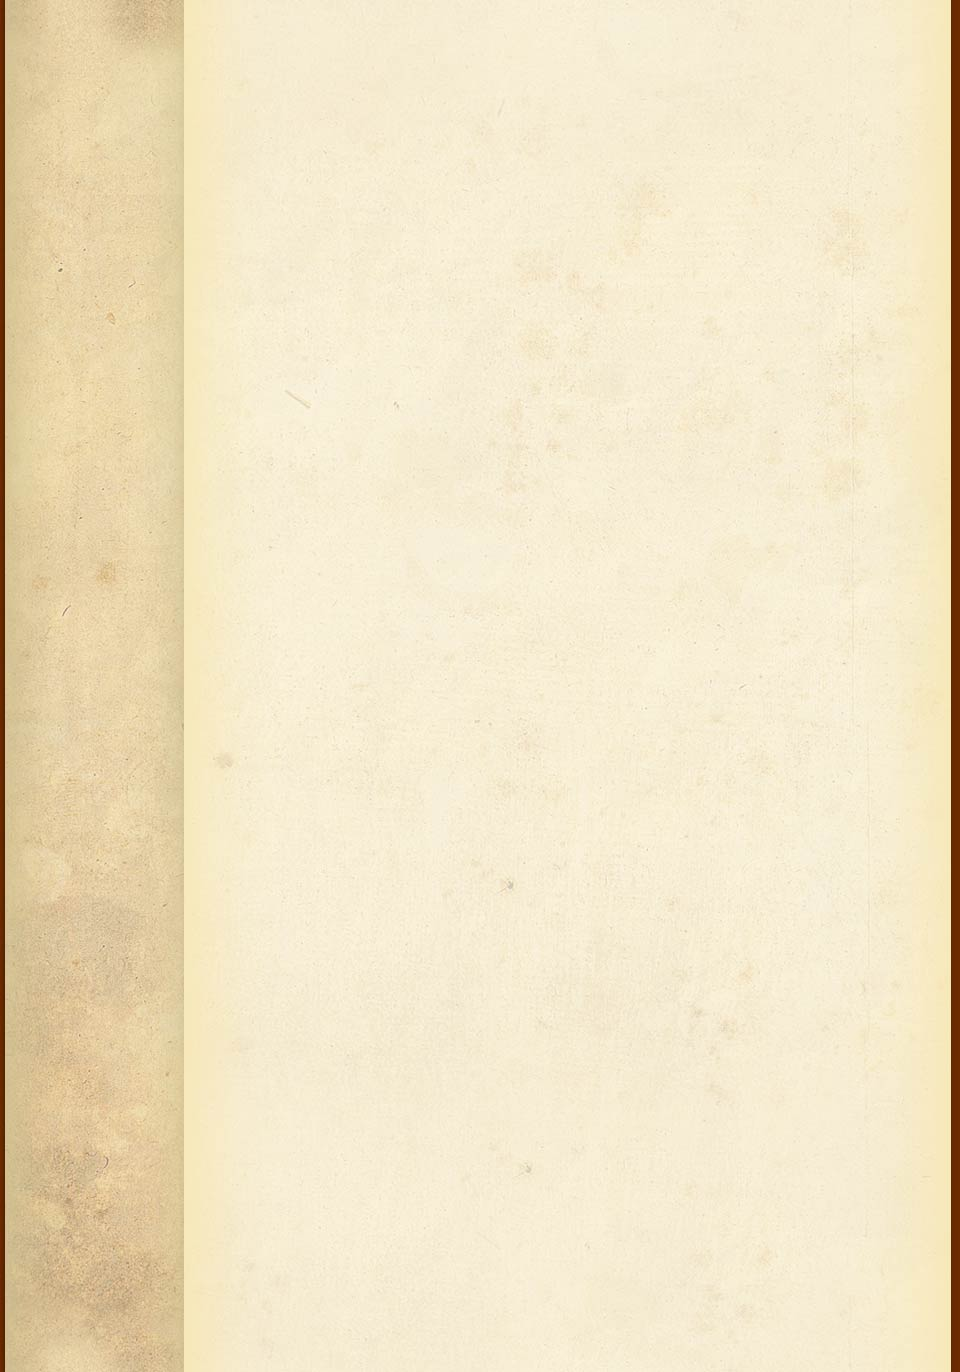
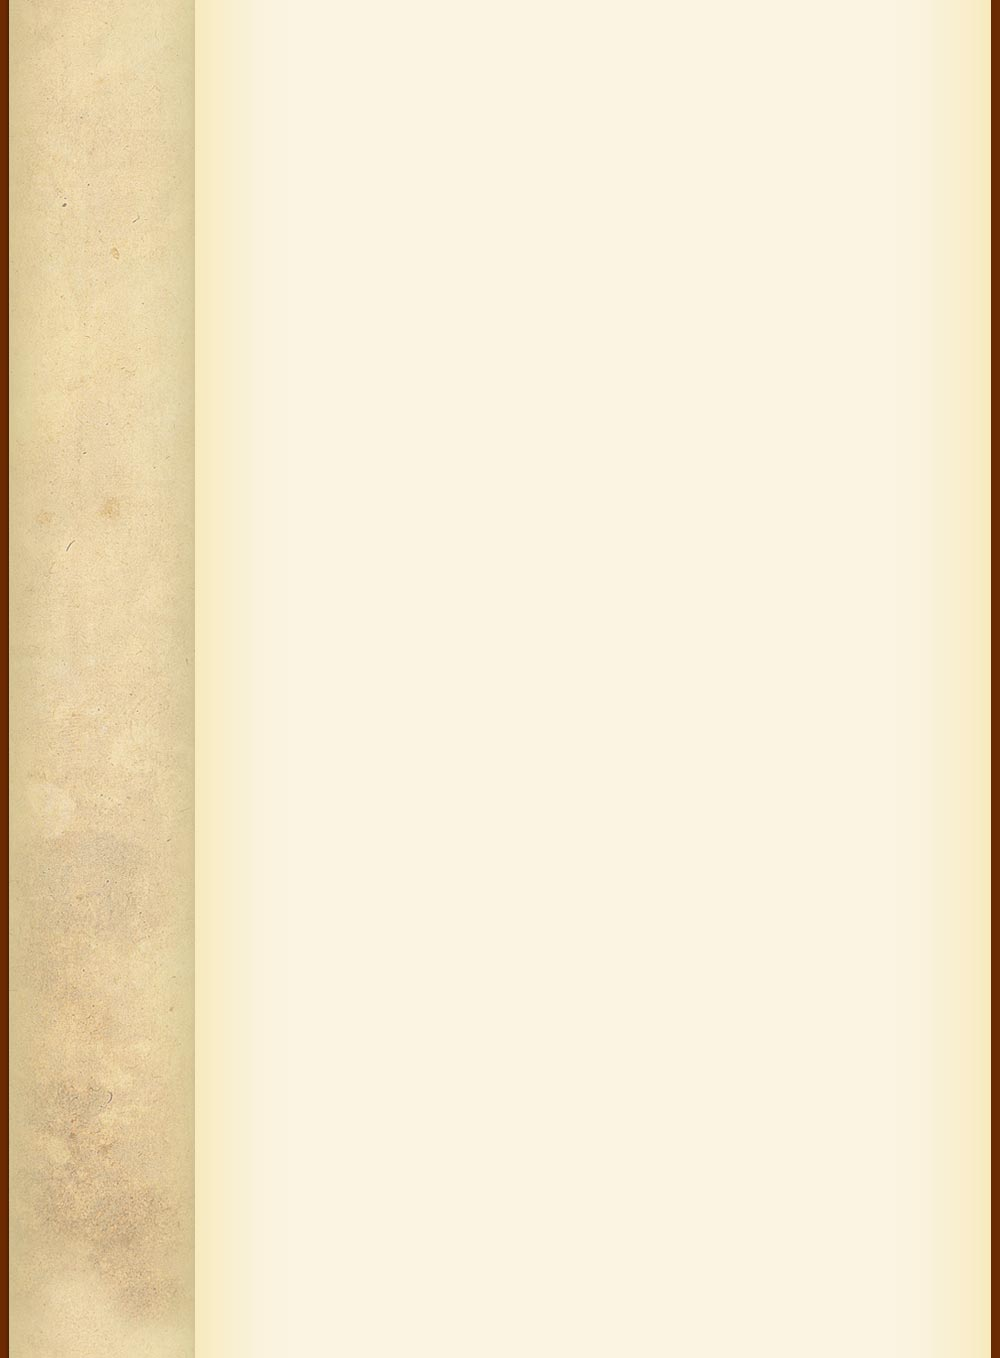
fixes to theme 5, additions to openscholar, base

diff --git a/sites/all/themes/scholar_theme_05/scholar-theme-05.css b/sites/all/themes/scholar_theme_05/scholar-theme-05.css
@@ -20,6 +20,19 @@ body.two-sidebars {
     background-image: url(images/body-bg-both-sidebar.jpg);
     }
 
+body.sidebar-left #header {
+    background-image:url(images/header-left-sidebar.jpg);
+    }
+
+body.sidebar-right #header {
+    background-image:url(images/header-right-sidebar.jpg);
+    }
+
+body.two-sidebars #header {
+    background-image:url(images/header-both-sidebar.jpg);
+    }
+
+
 #extradiv {
     text-indent: -999em;
     position: fixed;
@@ -31,10 +44,12 @@ body.two-sidebars {
     }
 
 #container {
-    width: 960px;
+    width: 1000px;
     margin: 0 auto;
     padding-bottom: 213px;
     }
+
+/* TYPOGRAPHY */
 
 a, a:visited {
     color:#953a0d;
@@ -66,136 +81,14 @@ h2.title {
   margin-bottom: 1em;
   }
 
-
 #block-menu-primary-links {
     text-transform: uppercase;
     }
 
-#sidebar-left {
-  text-align:right;
-  }
-
-#sidebar-left ul.menu {
-  text-transform: uppercase;
-  text-align:right;
-  }
-
-
-/* LAYOUT */
-
-#header-main, #content-main {
-  padding: 10px 35px;
-  }
-
-#sidebar-left, #header-left {
-  width: 130px;
-  right: 194px;
-  padding-right: 10px;
-  padding-left: 34px;
-  }
-
-#sidebar-left {
-  right: 244px;
-  top: -100px;
-  }
-
-#sidebar-right, #header-right {
-  width: 154px;
-  padding-left: 20px;
-  padding-right: 34px;
-  }
-
-#header-wrapper, #content-wrapper {
-  width: auto;
-  padding-left: 174px;
-  padding-right: 228px;
-  }
-
-#content-wrapper {
-  padding-right: 278px;
-  }
-
-#sidebar-left, #sidebar-right {
-  font-size: 13px;
-  line-height: 112%;
-  }
-
-#sidebar-left li, #sidebar-right li {
-  margin-bottom: .7em;
-  }
-
-body.sidebar-left #content-wrapper {
-  padding-right: 70px;
-  }
-
-body.no-sidebars #content-wrapper {
-  padding-right: 35px;
-  padding-left: 35px;
-  }
-
-
-body.navbar #content-main {
-  margin-top: 30px;
-  }
-
-#content-main, #sidebar-right, #sidebar-left {
-  padding-top: 0;
-  }
-
-
-/* HEADER ELEMENTS */
-
-
-#header {
-    padding-top: 41px;
-    background:url(images/header-no-sidebar.jpg) no-repeat top center #6d2a01;
-    }
-
-
-#header-main {
-  background: transparent;
-  padding-left: 10px;
-  padding-right:10px;
-  }
-
-#header #header-right {
-    padding-top: 20px;
-    text-align: center;
-    }
-
-body.sidebar-left #header, body.two-sidebars #header {
-  padding-left: 173px;
-  }
-
-body.header-left-main #header {
-  padding-right: 248px;
-  }
-
-body.sidebar-left #header {
-    background-image:url(images/header-left-sidebar.jpg);
-    }
-
-body.sidebar-right #header {
-    background-image:url(images/header-right-sidebar.jpg);
-    }
-
-body.two-sidebars #header {
-    background-image:url(images/header-both-sidebar.jpg);
-    }
-
-body.header-main #block-scholar-1, body.header-main-right #block-scholar-1 {
-  padding-left: 149px;
-  background: url(images/crest.png) no-repeat 21px 0 transparent;
-  min-height: 112px;
-  }
-
-body.sidebar-right #header-wrapper {
-  margin: 0;
-  }
-
 #header h1 {
     font-size: 2em;
     line-height: 1em;
+    font-weight: normal;
     }
 
 #header h1, #header h2, #header h3, #header a, #header a:visited, #header h1 a, #header h1 a:visited, #header {
@@ -215,6 +108,147 @@ body.sidebar-right #header-wrapper {
 #header a, #header a:visited {
     text-decoration: none;
     }
+
+
+#sidebar-left {
+  text-align:right;
+  }
+
+#sidebar-left ul.menu {
+  text-transform: uppercase;
+  text-align:right;
+  }
+
+
+/* LAYOUT */
+
+#header-main {
+  padding: 10px 32px;
+  }
+
+body.sidebar-left #header-main,
+body.two-sidebars #header-main {
+  padding-left: 0;
+  }
+
+#content-main {
+  padding: 0 40px;
+  }
+
+#sidebar-left, #header-left {
+  width: 156px;
+  right: 259px;
+  padding-right: 15px;
+  padding-left: 24px;
+  }
+
+body.sidebar-left #header-left,
+body.two-sidebars #header-left {
+  right:205px;
+  }
+
+#sidebar-left {
+  top: -100px;
+  right: 275px;
+  }
+
+#sidebar-right, #header-right {
+  width: 156px;
+  padding-left: 15px;
+  padding-right: 24px;
+  margin-right: -259px;
+  }
+
+#sidebar-right {
+  margin-right: -275px;
+  }
+
+#header-wrapper, #content-wrapper {
+  width: auto;
+  }
+
+#header-wrapper {
+  padding-left: 195px;
+  padding-right: 259px;
+  }
+
+body.sidebar-left #header-wrapper,
+body.two-sidebars #header-wrapper {
+  padding-right: 205px;
+  }
+
+#content-wrapper {
+  padding-left: 195px;
+  padding-right: 275px;
+  }
+
+
+/*CONTENT AREA */
+
+#sidebar-left, #sidebar-right {
+  font-size: 13px;
+  line-height: 112%;
+  }
+
+#sidebar-left li, #sidebar-right li {
+  margin-bottom: .7em;
+  }
+
+body.sidebar-left #content-wrapper {
+  padding-right: 70px;
+  }
+
+body.no-sidebars #content-wrapper {
+  padding-right: 35px;
+  padding-left: 35px;
+  }
+body.navbar #content-main {
+  margin-top: 30px;
+  }
+
+#content-main, #sidebar-right, #sidebar-left {
+  padding-top: 0;
+  }
+
+
+/* HEADER ELEMENTS */
+
+
+#header {
+    padding-top: 40px;
+    min-height:160px;
+    background:url(images/header-no-sidebar.jpg) no-repeat top center #6d2a01;
+    }
+
+#header-main, body.header-main #header-main {
+  background: transparent;
+  padding-left: 10px;
+  padding-right:10px;
+  }
+
+#header #header-right {
+    padding-top: 20px;
+    text-align: center;
+    }
+
+body.sidebar-left, body.no-sidebars #header #header-right {
+    padding-top: 0;
+    }
+
+body.sidebar-left #header, body.two-sidebars #header {
+  padding-left: 195px;
+  }
+
+body.header-main #block-scholar-1, body.header-main-right #block-scholar-1 {
+  padding-left: 149px;
+  background: url(images/crest.png) no-repeat 21px 0 transparent;
+  min-height: 112px;
+  }
+
+body.sidebar-right #header-wrapper {
+  margin: 0;
+  }
+
 
 #scholar-shield {
  padding-top: 10px;

diff --git a/sites/all/themes/custom/openscholar/openscholar-ie7.css b/sites/all/themes/custom/openscholar/openscholar-ie7.css
@@ -1,0 +1,12 @@
+#main {
+	height:expression(document.body.clientHeight-120); /* 80+20+20=120 */
+	width:expression(document.body.clientWidth-260); /* 200+20+20+20=260 */
+}
+
+#side {
+	height:expression(document.body.clientHeight-120); /* 80+20+20=120 */
+}
+
+#header ul.menu li {
+  display:inline;
+  }

diff --git a/sites/all/themes/scholar_base/ie-7.css b/sites/all/themes/scholar_base/ie-7.css
@@ -21,7 +21,8 @@
 .empty-content p,
 .empty-content .item-list ul.context-links li,
 .ahah-progress .throbber,
-.column {
+.column,
+#powered-link {
   display: inline;
   }
 

diff --git a/sites/all/themes/scholar_theme_05/scholar-theme-05-ie.css b/sites/all/themes/scholar_theme_05/scholar-theme-05-ie.css
@@ -1,7 +1,3 @@
-#sidebar-left {
-	left: 210px;
+body.two-sidebars #sidebar-left, body.two-sidebars #header-left {
+	left: 195px;
 	}
-
-#header-left {
-  left: -210px;
-  }
